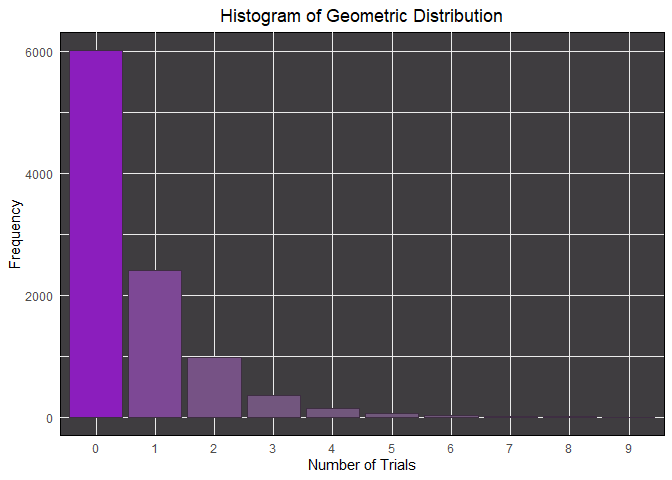
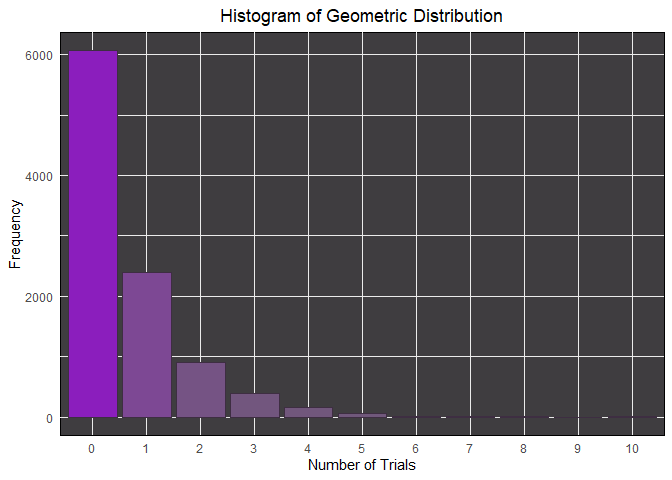
here

diff --git a/SA1-Lansangan/LANSANGAN_ROMAND-SA1.md b/SA1-Lansangan/LANSANGAN_ROMAND-SA1.md
@@ -791,27 +791,39 @@ program, do validity checks that the probabilities are in the interval
     shinyApp(ui = ui, server = server)
 
 This is a rather fun project to work on I must say. I will provide a
-link for the R file for you to run the application yourself.
-Nevertheless, I will explain the functionality here.
+link for the [R
+File](https://github.com/RomandRapido/APM1110/blob/main/SA1-Lansangan/LANSANGAN_ROMAND-SA1_files/LANSANGAN_ROMAND-SA1-item2.r)
+for you to run the application yourself. Nevertheless, I will explain
+the functionality here.
 
 ##### Features:
 
 To navigate the website more comfortably, please maximize your window.
 
+![](https://github.com/RomandRapido/APM1110/blob/main/SA1-Lansangan/LANSANGAN_ROMAND-SA1_files/figure-gfm/2_1.JPG?raw=true)
+
 This application offers two modes: UNIVARIATE and BIVARIATE, as per your
 instruction. You can switch between these modes using the dropdown box
 at the top left of your screen.
+
+![](https://github.com/RomandRapido/APM1110/blob/main/SA1-Lansangan/LANSANGAN_ROMAND-SA1_files/figure-gfm/2_2.JPG?raw=true)
 
 Add Row/Values: In the UNIVARIATE mode, you’ll find an “Add Row” button
 to add new rows with empty values to the table below. In the BIVARIATE
 mode, you’ll find separate buttons to add X and Y values.
 
+![](https://github.com/RomandRapido/APM1110/blob/main/SA1-Lansangan/LANSANGAN_ROMAND-SA1_files/figure-gfm/2_3.JPG?raw=true)
+
 “Remove All” clears the entire table to its default state for easier
 customization. “Remove” button deletes the row or column specified in
 the text box above it. Table Section:
 
+![](https://github.com/RomandRapido/APM1110/blob/main/SA1-Lansangan/LANSANGAN_ROMAND-SA1_files/figure-gfm/2_4.JPG?raw=true)
+
 The table allows you to edit values. Ensure that values are discrete,
 and probabilities fall within the range of \[0, 1\].
+
+![](https://github.com/RomandRapido/APM1110/blob/main/SA1-Lansangan/LANSANGAN_ROMAND-SA1_files/figure-gfm/2_5.JPG?raw=true)
 
 After editing values, click the “Submit” button. The app checks if the
 probabilities sum up to 1. If they don’t, a message will pop up. If
@@ -913,13 +925,13 @@ simulated_variance <- var(simulated)
 print(paste("Mean of the simulated experiment: ", simulated_mean))
 ```
 
-    ## [1] "Mean of the simulated experiment:  0.6593"
+    ## [1] "Mean of the simulated experiment:  0.6511"
 
 ``` r
 print(paste("Variance of the simulated experiment: ", simulated_variance))
 ```
 
-    ## [1] "Variance of the simulated experiment:  1.07673118311831"
+    ## [1] "Variance of the simulated experiment:  1.08367715771577"
 
 #### Proving the Markov property holds in geometeric sequence:
 
@@ -1103,8 +1115,8 @@ simulated_table
 ```
 
     ## simulated
-    ##    0    1    2    3    4    5    6    7    8    9 
-    ## 6007 2404  983  362  143   58   31    8    3    1
+    ##    0    1    2    3    4    5    6    7    8    9   10 
+    ## 6062 2399  899  399  153   59   10    9    6    1    3
 
 Note that X is assumed to be equals to the nth trial. So, X=1 means that
 it’s the success that happened on the first try. In the simulation, the
@@ -1119,7 +1131,7 @@ prob_for_xgreater3 <- (sum(simulated_table[names(simulated_table) >= 3]) / sum(s
 prob_for_xeq4 / prob_for_xgreater3
 ```
 
-    ## [1] 0.5973597
+    ## [1] 0.6263736
 
 #### For P(X=1)
 
@@ -1128,7 +1140,7 @@ prob_for_xeq1 <- (sum(simulated_table[names(simulated_table) == 0]) / sum(simula
 prob_for_xeq1
 ```
 
-    ## [1] 0.6007
+    ## [1] 0.6062
 
 ##### For P(X=5\|X\>3):
 
@@ -1137,7 +1149,7 @@ prob_for_xeq5 <- (sum(simulated_table[names(simulated_table) == 4]) / sum(simula
 prob_for_xeq5 / prob_for_xgreater3
 ```
 
-    ## [1] 0.2359736
+    ## [1] 0.2401884
 
 ##### For P(X=2)
 
@@ -1146,7 +1158,7 @@ prob_for_xeq2 <- (sum(simulated_table[names(simulated_table) == 1]) / sum(simula
 prob_for_xeq2
 ```
 
-    ## [1] 0.2404
+    ## [1] 0.2399
 
 Both of which are relatively close to their respective partner and their
 theoretical equivalent.
